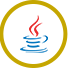
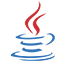
update (18050501)

diff --git a/src/app/views/about/about.component.html b/src/app/views/about/about.component.html
@@ -32,9 +32,6 @@
         </div>
       </div>
     </article>
-    <article>
-      <div id="photo_area_temp" style="display: flex; justify-content: center; align-items: center; width: 100%; height: 100%; border: 1px dotted gray; color: gray;">Photo</div>
-    </article>
   </section>
 
   <section class="about-skill division">
@@ -42,33 +39,27 @@
       <div>SKILL (Language &amp; Tools)</div>
     </div>
     <div class="section-contents">
-      <div>C#, C++, JAVA, HTML5, CSS, Javascript, JQuery, MySQL, Android, JSP, ASP.NET Core, Angular 4</div>
       <div>
         <ul class="skill-list">
-          <li><img src="assets/images/ic_skill_csharp.png" /></li>
-          <li><img src="assets/images/ic_skill_cpp.png" /></li>
-          <li><img src="assets/images/ic_skill_java.png" /></li>
-          <li><img src="assets/images/ic_skill_htmlcss.png" /></li>
-          <li><img src="assets/images/ic_skill_js.png" /></li>
-          <li><img src="assets/images/ic_skill_jquery.png" /></li>
-          <li><img src="assets/images/ic_skill_mysql.png" /></li>
-          <li><img src="assets/images/ic_skill_android.png" /></li>
-          <li><img src="assets/images/ic_skill_jsp.png" /></li>
+          <li *ngFor="let skill of skillTable">
+            <img src="{{ skill.img }}" />
+            <div class="skillTable">
+              <div>{{ skill.title }}</div>
+              <div>
+                <span>활용도</span>
+                <span>{{ skill.star }}</span>
+              </div>
+              <div>
+                <span>사용 프로젝트 수</span>
+                <span>{{ skill.countProject }}</span>
+              </div>
+            </div>
+          </li>
         </ul>
       </div>
     </div>
   </section>
 </section>
-
-<!-- 
-<section class="container">
-  <section class="about-slogan">
-    <div class="section-title bigger">
-      <div>즐거운 개발자가 즐거운 소프트웨어를 만드는법</div>
-    </div>
-  </section>
-</section> 
--->
 
 <section class="container">
   <section class="about-personality division">

diff --git a/src/app/views/about/about.component.ts b/src/app/views/about/about.component.ts
@@ -1,11 +1,33 @@
 import { Component, OnInit } from '@angular/core';
 
+interface Skill {
+  title: string;
+  star: string;
+  countProject: number;
+  img: string;
+}
+
 @Component({
   selector: 'view-about',
   templateUrl: './about.component.html',
   styleUrls: ['./about.component.css']
 })
+
 export class AboutComponent implements OnInit {
+
+  imagePath: string = '/assets/images/';
+  skillTable: Skill[] = [
+    { title: 'C#', star: '★★★★☆', countProject: 2, img: this.imagePath + 'ic_skill_csharp.png' },
+    { title: 'JAVA', star: '★★★★☆', countProject: 6, img: this.imagePath + 'ic_skill_java.png' },
+    { title: 'HTML/CSS', star: '★★★★☆', countProject: 3, img: this.imagePath + 'ic_skill_htmlcss.png' },
+    { title: 'Javascript', star: '★★★★☆', countProject: 3, img: this.imagePath + 'ic_skill_js.png' },
+    { title: 'JQuery', star: '★★★☆☆', countProject: 3, img: this.imagePath + 'ic_skill_jquery.png' },
+    { title: 'MySQL', star: '★★☆☆☆', countProject: 4, img: this.imagePath + 'ic_skill_mysql.png' },
+    { title: 'Android', star: '★★★☆☆', countProject: 3, img: this.imagePath + 'ic_skill_android.png' },
+    { title: 'JSP', star: '★★★☆☆', countProject: 2, img: this.imagePath + 'ic_skill_jsp.png' },
+    { title: 'ASP.NET Core', star: '★★★☆☆', countProject: 1, img: this.imagePath + 'ic_skill_aspnetcore.png' },
+    { title: 'Angular', star: '★★☆☆☆', countProject: 1, img: this.imagePath + 'ic_skill_angular.png' }
+  ];
 
   constructor() { }
 

diff --git a/src/app/views/about/about.component.css b/src/app/views/about/about.component.css
@@ -92,19 +92,44 @@ section.about-my-photo {
 }
 
 .self-intro > #intro {
-    padding-bottom: 40px;
+    padding-bottom: 80px;
+}
+
+.about-skill > .section-contents {
+    padding: 0;
 }
 
 .skill-list {
-    margin: 30px 0;
-    padding: 0;
     list-style: none;
+    display: flex;
+    flex-wrap: wrap;
+    margin: 0;
+    padding: 20px 0 0 0;
 }
 
 .skill-list > li {
-    margin: 4px;
-    display: inline-block;
+    display: grid;
+    grid-template-columns: 64px auto;
+    grid-gap: 20px;
+    margin: 0 10px 20px 10px;
+    padding: 20px;
+    width: calc((100% - 120px) / 3 - 20px);
+    font-size: 14px;
+    font-weight: normal;
+    background-color: #fff;
+    box-shadow: 0px 1px 1px rgba(0, 0, 0, 0.3);
 }
+
+.skill-list > li > img {
+    width: 64px;
+    height: 64px;   
+}
+
+.skillTable > div:first-child {
+    font-size: 16px;
+    font-weight: 500;
+}
+
 
 .personality > div {
     margin-bottom: 10px;

diff --git a/src/styles.css b/src/styles.css
@@ -36,6 +36,7 @@
 body {
     margin: 0;
     padding: 0;
+    background-color: #fdfdfd;
 }
 
 a {
@@ -45,7 +46,7 @@ a {
 
 /* Layout Style */
 .container {
-    width: 1300px;
+    width: 992px;
     height: inherit;
     padding-right: 15px;
     padding-left: 15px;

diff --git a/src/app/core/core.module.ts b/src/app/core/core.module.ts
@@ -5,6 +5,12 @@ import { CommonModule } from '@angular/common';
   imports: [
     CommonModule
   ],
-  declarations: []
+  declarations: [
+    
+  ],
+  providers: [],
+  exports: [
+    
+  ]
 })
 export class CoreModule { }

diff --git a/src/app/views/banner/banner.component.css b/src/app/views/banner/banner.component.css
@@ -1,5 +1,5 @@
 .banner {
-    width: 100vw;
+    width: 100%;
     height: 100vh;
     background: var(--colorBgDark);
 }
